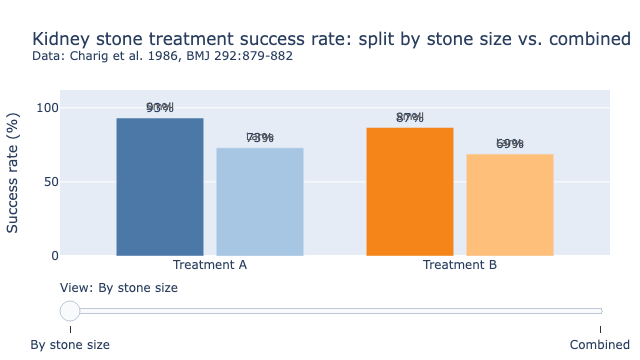
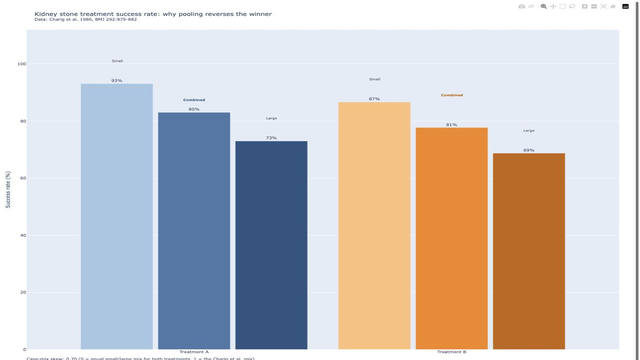
Align chapter text and README with the redesigned Ch1/Ch4 charts
Chapter 1's Simpson's paradox figure caption (index.md, the chapter's own
.md, and the README preview card) described the old binary split/combined
toggle. Updated to describe the continuous case-mix slider that replaced it.

Chapter 4's Bayesian Ridge figure caption (same three places) only described
the posterior density panel. Updated to also describe the new left panel
showing the fitted line pulling away from the dashed OLS reference.

Regenerated both README preview PNGs, which were static screenshots of the
old chart designs.

diff --git a/README.md b/README.md
@@ -64,14 +64,14 @@ Three figures pulled from the live book, shown here as static images since GitHu
 <img src="assets/readme-previews/chapter-01-simpsons-paradox.png" alt="Simpson's paradox in the Charig et al. 1986 kidney stone treatment data">
 </a>
 <br>
-<b>Simpson's paradox, with the 1986 kidney-stone data.</b> Treatment A wins on both stone sizes taken separately. Pool the two groups together and Treatment B wins instead. The slider flips between the split view and the combined view so you can watch the reversal happen. <a href="https://rudrendupaul.github.io/python-statistics-for-data-science-ml-ai-engineers/chapters/chapter-01-descriptive-statistics.html">Fully interactive in Chapter 1</a>.
+<b>Simpson's paradox, with the 1986 kidney-stone data.</b> Treatment A wins on both stone sizes taken separately. Drag the slider from an even case mix toward the study's own mix, and watch the combined bars cross over as Treatment B pulls ahead. <a href="https://rudrendupaul.github.io/python-statistics-for-data-science-ml-ai-engineers/chapters/chapter-01-descriptive-statistics.html">Fully interactive in Chapter 1</a>.
 </td>
 <td width="33%">
 <a href="https://rudrendupaul.github.io/python-statistics-for-data-science-ml-ai-engineers/chapters/chapter-04-regression-modeling.html">
 <img src="assets/readme-previews/chapter-04-bayesian-ridge.png" alt="Bayesian posterior narrowing as the prior variance shrinks, tracing Ridge regression's shrinkage path">
 </a>
 <br>
-<b>Ridge regression, derived from a Gaussian prior.</b> Shrink the prior variance with the slider and watch the posterior over a regression coefficient narrow and slide toward zero, tracing the same shrinkage path Ridge regression's penalty term draws algebraically. <a href="https://rudrendupaul.github.io/python-statistics-for-data-science-ml-ai-engineers/chapters/chapter-04-regression-modeling.html">Fully interactive in Chapter 4</a>.
+<b>Ridge regression, derived from a Gaussian prior.</b> Shrink the prior variance with the slider and watch the fitted line pull away from the dashed OLS reference on the left, while the posterior over the coefficient narrows and slides toward zero on the right, tracing the same shrinkage path Ridge regression's penalty term draws algebraically. <a href="https://rudrendupaul.github.io/python-statistics-for-data-science-ml-ai-engineers/chapters/chapter-04-regression-modeling.html">Fully interactive in Chapter 4</a>.
 </td>
 </tr>
 </table>

diff --git a/chapters/chapter-04-regression-modeling.md b/chapters/chapter-04-regression-modeling.md
@@ -447,14 +447,16 @@ that prior clusters around zero before any data arrives.
         style="border:1px solid #ddd; border-radius:6px;" loading="lazy"></iframe>
 ```
 
-As the prior variance shrinks, equivalent to $\lambda$ growing, the posterior on the
-payload-size coefficient narrows and its center moves toward zero, tracing the same shrinkage
-Ridge regression's penalty term produces.
+As the prior variance shrinks, equivalent to $\lambda$ growing, the fitted line on the left
+visibly flattens away from the fixed, dashed OLS reference, while the posterior on the right
+narrows and its center moves toward zero, tracing the same shrinkage Ridge regression's
+penalty term produces.
 :::
 
-@fig-bayesian-ridge shows this pattern directly for the payload-size coefficient: one full
-distribution at a time, instead of one point estimate, tracing out the same shrinkage Ridge
-regression produces as the prior tightens.
+@fig-bayesian-ridge shows this pattern from two angles at once: the left panel grounds it in
+the fitted line itself, which pulls away from the OLS reference as the prior tightens, and the
+right panel shows the full distribution behind that line, instead of one point estimate,
+tracing out the same shrinkage Ridge regression produces as the prior tightens.
 
 Logistic regression does not offer the same clean arithmetic. Because the logistic function is
 nonlinear, the posterior over its coefficients has no closed form the way Ridge and Lasso's

diff --git a/index.md b/index.md
@@ -51,8 +51,9 @@ points.
 ```
 
 Charig et al.'s 1986 kidney-stone data: Treatment A wins on both stone sizes taken
-separately. Drag the slider to pool the two groups together, and Treatment B wins instead.
-Chapter 1 uses this reversal to introduce Simpson's paradox.
+separately. Drag the slider from an even case mix toward the study's own mix, and watch
+the combined bars cross over as Treatment B pulls ahead. Chapter 1 uses this reversal to
+introduce Simpson's paradox.
 :::
 
 ::: {#fig-index-bayesian-ridge}
@@ -61,8 +62,9 @@ Chapter 1 uses this reversal to introduce Simpson's paradox.
         style="border:1px solid #ddd; border-radius:6px;" loading="lazy"></iframe>
 ```
 
-Shrink the prior variance with the slider and watch the posterior over a regression
-coefficient narrow and slide toward zero. Chapter 4 shows this is the same shrinkage Ridge
+Shrink the prior variance with the slider and watch the fitted line pull away from the
+dashed OLS reference on the left, while the posterior over the coefficient narrows and
+slides toward zero on the right. Chapter 4 shows this is the same shrinkage Ridge
 regression's penalty term produces, derived instead from a Gaussian prior.
 :::
 

diff --git a/chapters/chapter-01-descriptive-statistics.md b/chapters/chapter-01-descriptive-statistics.md
@@ -491,8 +491,9 @@ holds within each group can reverse itself when the groups are combined.
         style="border:1px solid #ddd; border-radius:6px;" loading="lazy"></iframe>
 ```
 
-Success rate by treatment, split by stone size vs. combined (Charig et al. 1986). Treatment A
-wins both subgroups yet loses once the two groups are pooled together.
+Success rate by treatment, split by stone size vs. combined (Charig et al. 1986). Drag the
+slider from an even case mix toward the study's own mix: Treatment A wins both subgroups yet
+loses once each treatment's own share of small and large cases is applied.
 :::
 
 This is *Simpson's paradox*, and @fig-simpsons shows the clearest documented case of it: a
